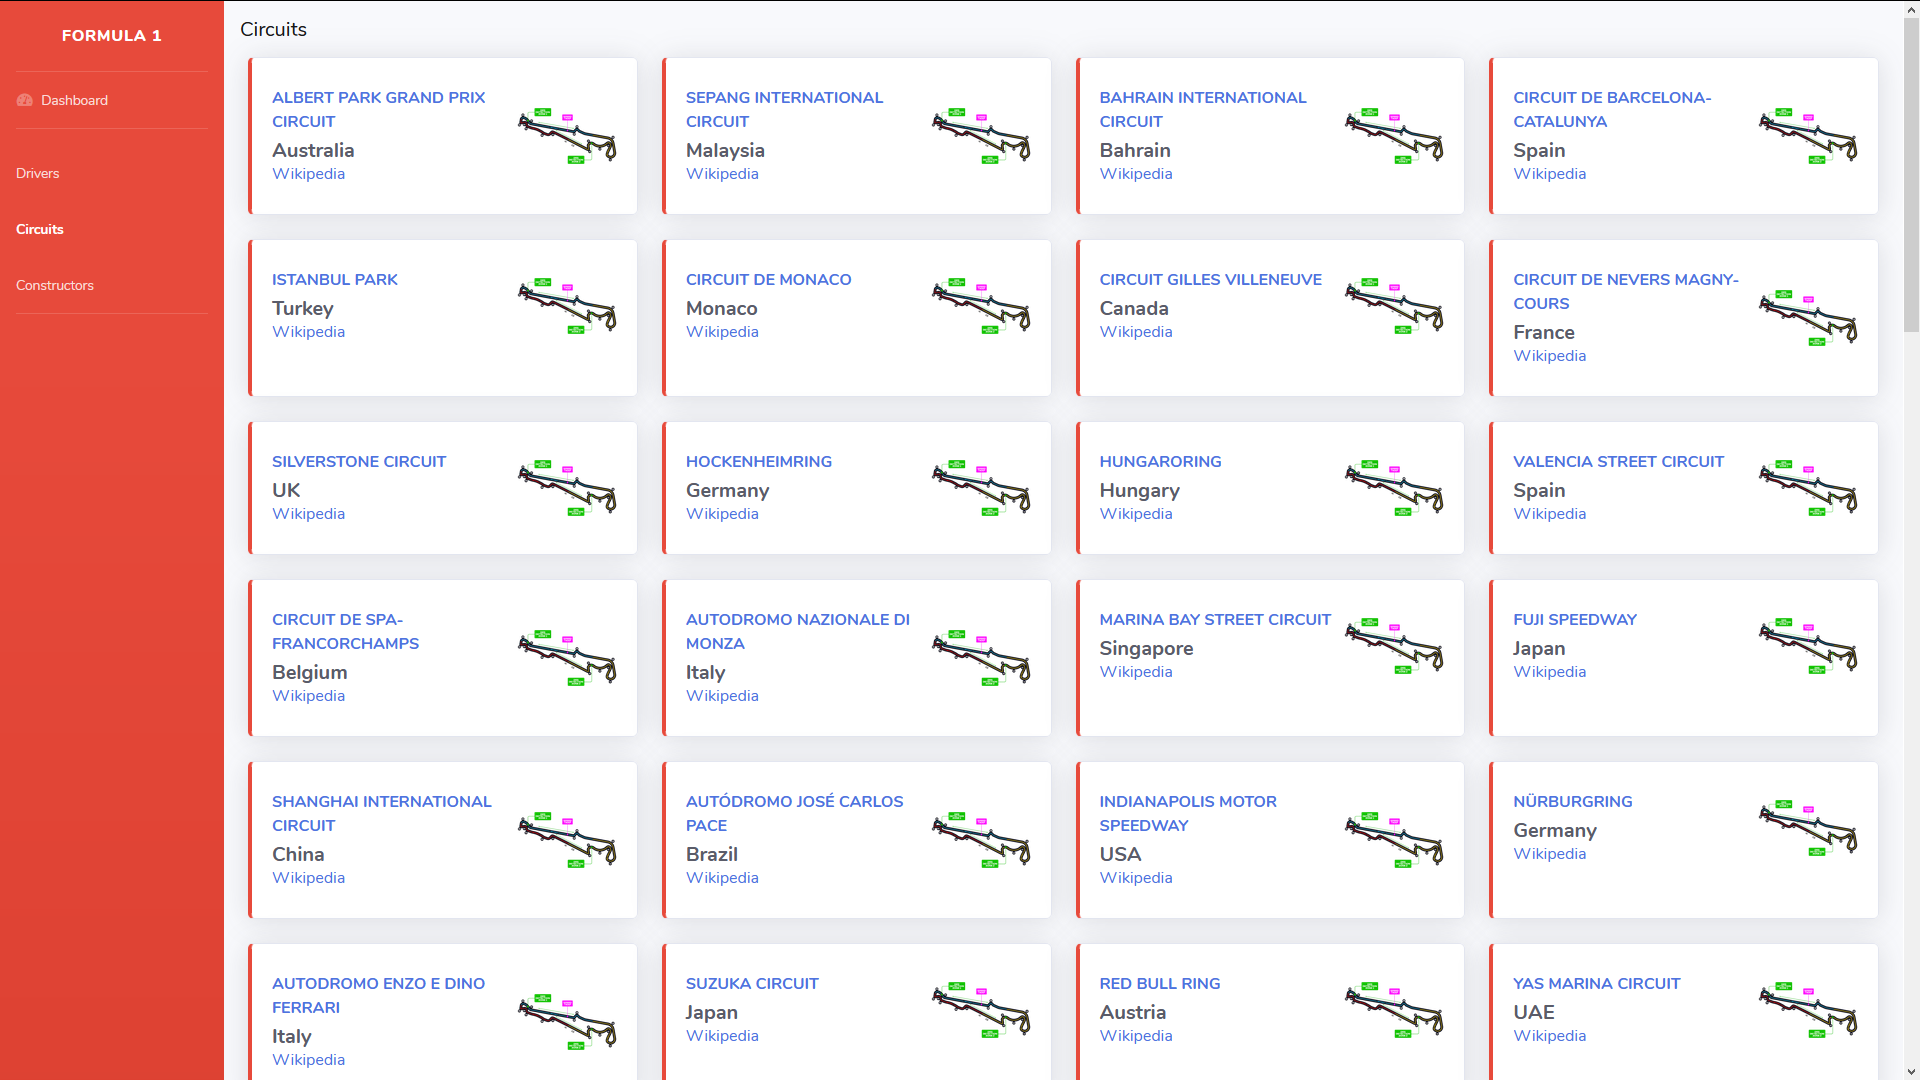
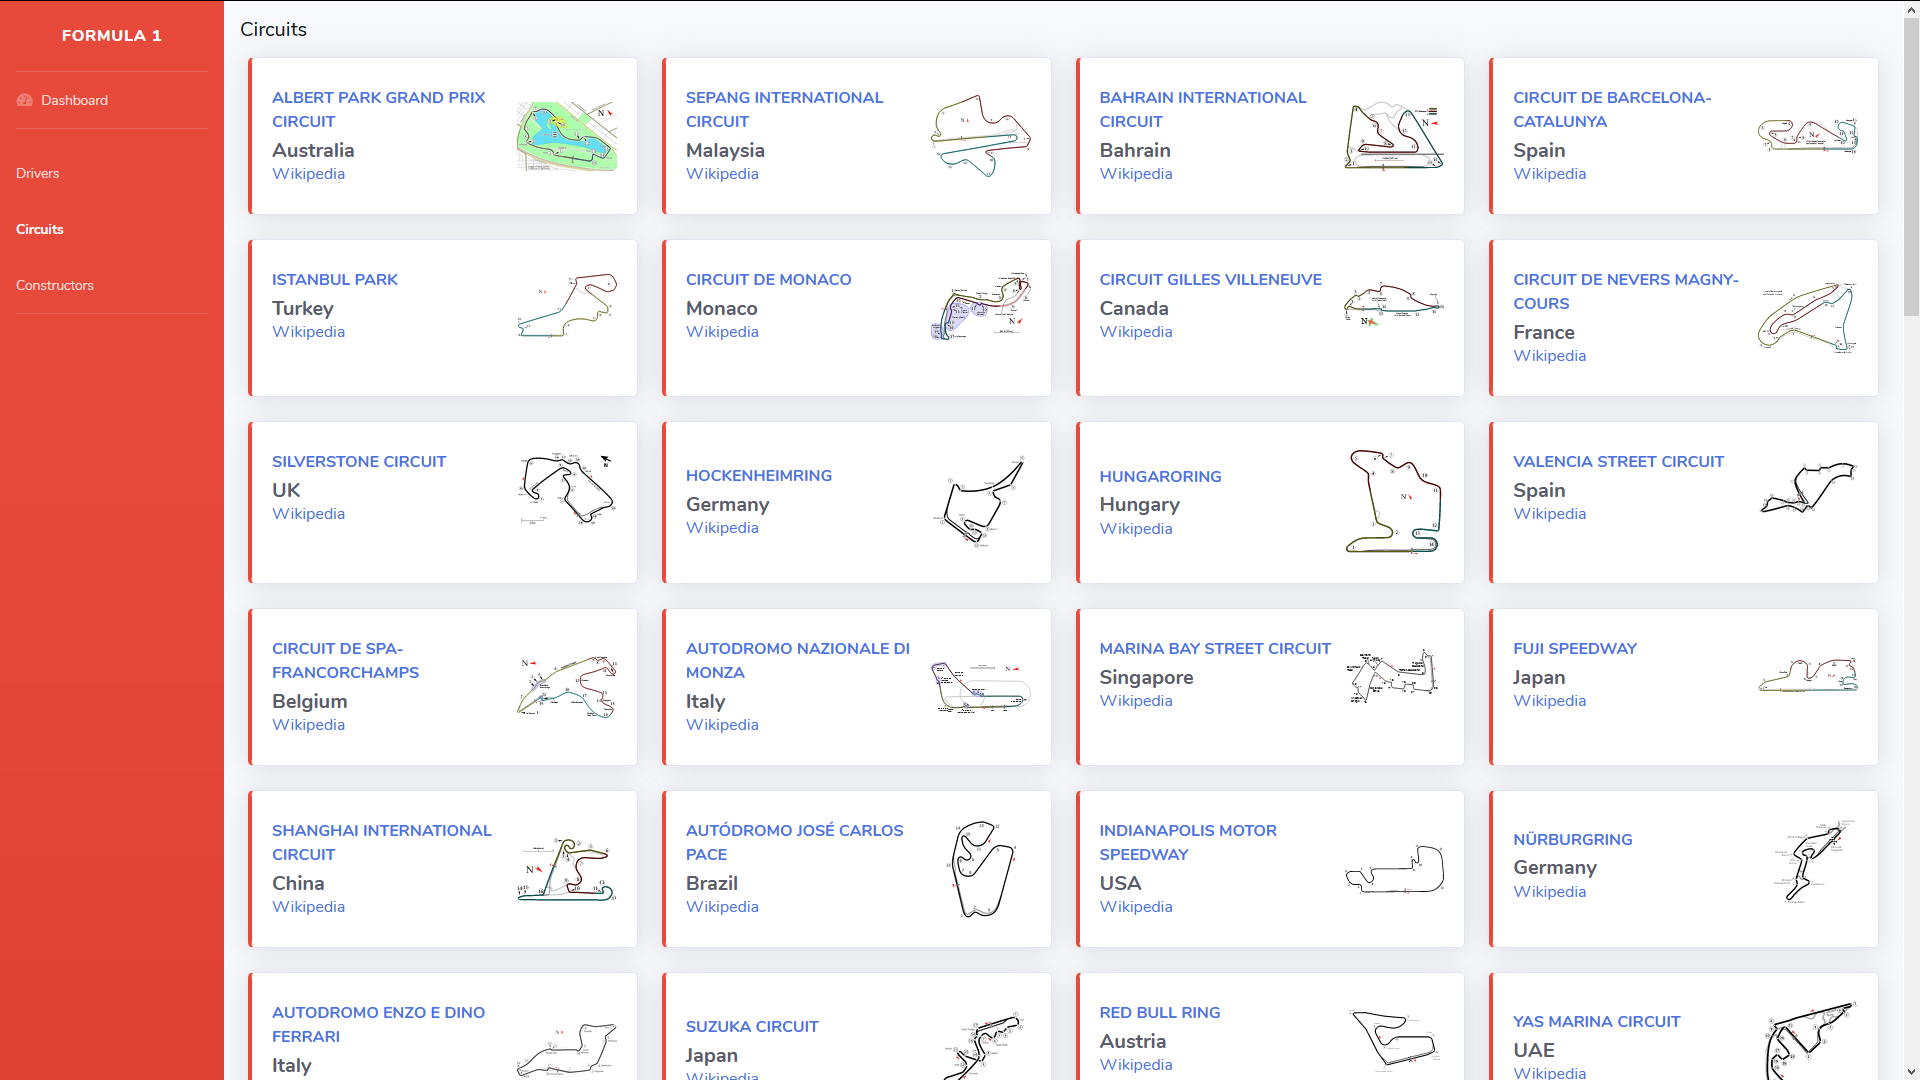
README

diff --git a/README.md b/README.md
@@ -14,6 +14,10 @@ The Software is written mainly in **C# WPF Project**, with the addition of some 
 </p>
 
 <p align="center">
+  <img src="https://github.com/vallauri-ict/formula-1-Mihai-Canea/blob/master/Assets/image/FormulaOneAPIConstructors.png" width="100%">
+</p>
+
+<p align="center">
   <img src="https://github.com/vallauri-ict/formula-1-Mihai-Canea/blob/master/Assets/image/FormulaOneAPICircuits.png" width="100%">
 </p>
 
